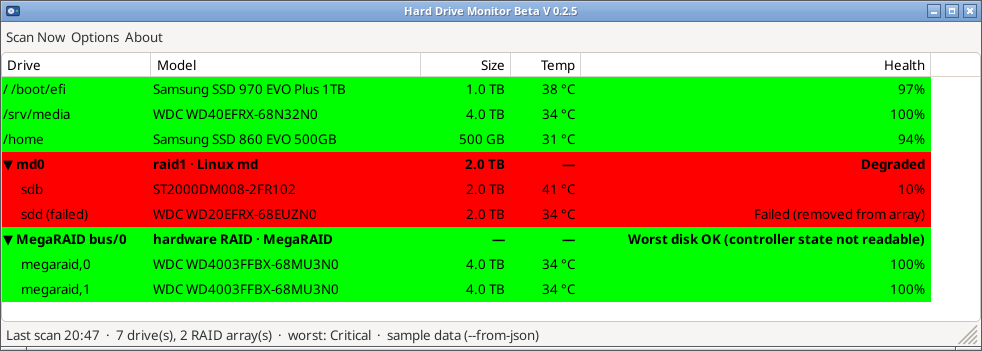
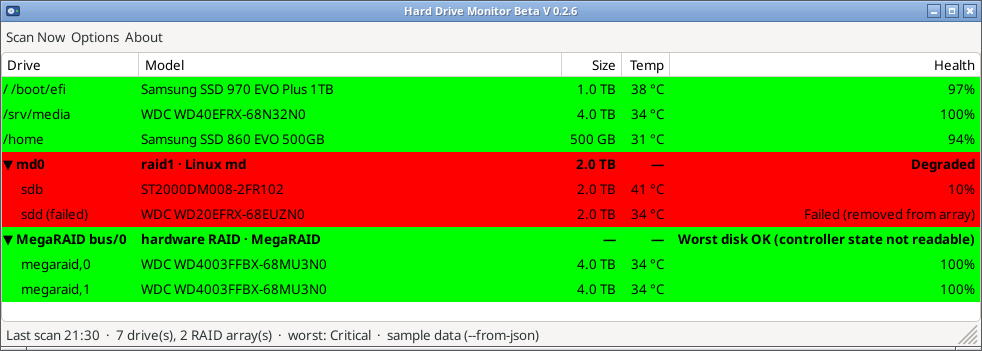
v0.2.6: drive list columns always fit the window (no horizontal scrollbar, no gap); Model takes the slack

diff --git a/gui/hdmon_gui.cpp b/gui/hdmon_gui.cpp
@@ -376,6 +376,8 @@ public:
         SetClientSize(FromDIP(wxSize(980, 300)));
         CentreOnScreen();
 
+        list_->Bind(wxEVT_SIZE, [this](wxSizeEvent& e) { e.Skip(); CallAfter([this] { FitColumns(); }); });
+        Bind(wxEVT_SHOW, [this](wxShowEvent& e) { e.Skip(); if (e.IsShown()) CallAfter([this] { FitColumns(); }); });
         scan_->Bind(wxEVT_BUTTON, &MainFrame::OnScan, this);
         opt->Bind(wxEVT_BUTTON, &MainFrame::OnOptions, this);
         abt->Bind(wxEVT_BUTTON, &MainFrame::OnAbout, this);
@@ -435,6 +437,31 @@ public:
         }
         if (keep >= 0 && keep < list_->GetItemCount()) list_->SetItemState(keep, wxLIST_STATE_SELECTED, wxLIST_STATE_SELECTED);
         list_->Thaw();
+        FitColumns();
+    }
+
+    // Columns always fill the list exactly: no horizontal scrollbar, no blank gap right of Health.
+    void FitColumns() {
+        int avail = list_->GetClientSize().GetWidth();     // client area: excludes a visible vertical scrollbar
+        if (avail <= 0) return;
+        const int pad = FromDIP(14);
+        wxFont bold = list_->GetFont();
+        bold.SetWeight(wxFONTWEIGHT_BOLD);
+        std::vector<int> mins(5, 0), hdr(5, 0);
+        for (int c = 0; c < 5; ++c) {
+            wxListItem it;
+            it.SetMask(wxLIST_MASK_TEXT);
+            list_->GetColumn(c, it);
+            hdr[c] = list_->GetTextExtent(it.GetText()).GetWidth() + pad;
+        }
+        wxClientDC dc(list_);
+        for (const auto& r : rows_) {
+            dc.SetFont(r.bold ? bold : list_->GetFont());
+            for (int c = 0; c < 5; ++c) mins[c] = std::max(mins[c], dc.GetTextExtent(U(r.cells[c])).GetWidth() + pad);
+        }
+        auto w = g::fit_column_widths(mins, hdr, avail, 1);                // Model takes the slack
+        for (int c = 0; c < 5; ++c)
+            if (list_->GetColumnWidth(c) != w[c]) list_->SetColumnWidth(c, w[c]);
     }
 
     void Toggle(long i) {

diff --git a/src/gui_model.cpp b/src/gui_model.cpp
@@ -292,4 +292,40 @@ bool save_gui_settings(const std::string& path, const GuiSettings& s, std::strin
            set_config_value(path, "update", "auto_check", b(s.auto_check), err);
 }
 
+std::vector<int> fit_column_widths(const std::vector<int>& mins, const std::vector<int>& header, int avail, size_t slack) {
+    const size_t n = mins.size();
+    std::vector<int> hdr(n, 0), want(n), w(n);
+    long sum_hdr = 0, sum_want = 0;
+    for (size_t i = 0; i < n; ++i) {
+        if (i < header.size()) hdr[i] = std::max(0, header[i]);
+        want[i] = std::max(mins[i], hdr[i]);
+        sum_hdr += hdr[i];
+        sum_want += want[i];
+    }
+    if (n == 0) return w;
+    if (slack >= n) slack = 0;
+    if (sum_hdr >= avail) return hdr;
+    if (sum_want <= avail) {
+        w = want;
+        w[slack] += avail - static_cast<int>(sum_want);
+        return w;
+    }
+    std::vector<bool> fixed(n, false);
+    for (;;) {
+        long room = avail, scalable = 0;
+        for (size_t i = 0; i < n; ++i) (fixed[i] ? room -= hdr[i] : scalable += want[i]);
+        bool changed = false;
+        for (size_t i = 0; i < n; ++i) {
+            if (fixed[i]) { w[i] = hdr[i]; continue; }
+            w[i] = scalable > 0 ? static_cast<int>(static_cast<long long>(want[i]) * room / scalable) : hdr[i];
+            if (w[i] < hdr[i]) { fixed[i] = true; changed = true; }
+        }
+        if (!changed) break;
+    }
+    long total = 0;
+    for (int x : w) total += x;
+    w[slack] += avail - static_cast<int>(total);     // rounding remainder (always >= 0)
+    return w;
+}
+
 }  // namespace hdmon::gui

diff --git a/tests/test_gui_model.cpp b/tests/test_gui_model.cpp
@@ -316,3 +316,23 @@ TEST_CASE("source text and smartmontools credit") {
     CHECK(g::used_smartctl({n, s}, meta));
     CHECK(g::source_text({n}, {{"source", "json-files"}}) == "sample data (--from-json)");
 }
+
+TEST_CASE("fit_column_widths fills the list exactly, Model takes slack, never below header") {
+    using g::fit_column_widths;
+    auto sum = [](const std::vector<int>& v) { int t = 0; for (int x : v) t += x; return t; };
+    std::vector<int> mins{100, 200, 60, 50, 80}, hdr{40, 45, 35, 40, 50};
+    auto w = fit_column_widths(mins, hdr, 900, 1);            // wide: extra goes to Model only
+    CHECK(sum(w) == 900);
+    CHECK(w == std::vector<int>{100, 610, 60, 50, 80});
+    w = fit_column_widths(mins, hdr, 490, 1);                  // exact fit
+    CHECK(w == mins);
+    w = fit_column_widths(mins, hdr, 300, 1);                  // narrow: proportional shrink, clamped at header
+    CHECK(sum(w) == 300);
+    for (size_t i = 0; i < w.size(); ++i) CHECK(w[i] >= hdr[i]);
+    CHECK(w[1] > w[0]);
+    w = fit_column_widths(mins, hdr, 215, 1);                  // only headers fit
+    CHECK(sum(w) == 215);
+    CHECK(w == std::vector<int>{40, 50, 35, 40, 50});
+    CHECK(fit_column_widths(mins, hdr, 100, 1) == hdr);        // too narrow even for headers
+    CHECK(fit_column_widths({10, 300}, {80, 20}, 400, 1) == std::vector<int>{80, 320});   // header beats content
+}

diff --git a/src/gui_model.hpp b/src/gui_model.hpp
@@ -77,4 +77,10 @@ GuiSettings load_gui_settings(const json& cfg);
 // Writes the four keys back with set_config_value (keeps the rest of the file).
 bool save_gui_settings(const std::string& config_path, const GuiSettings& s, std::string* err);
 
+// Column widths that add up to exactly `avail` (the list's client width without the vertical scrollbar).
+// mins[i] = content-based minimum, header[i] = header text width (a column never goes below it). Extra space
+// goes to column `slack`; when space is short every column shrinks in proportion to its minimum, clamped at its
+// header width. If even the header widths do not fit, the header widths are returned.
+std::vector<int> fit_column_widths(const std::vector<int>& mins, const std::vector<int>& header, int avail, size_t slack);
+
 }  // namespace hdmon::gui
